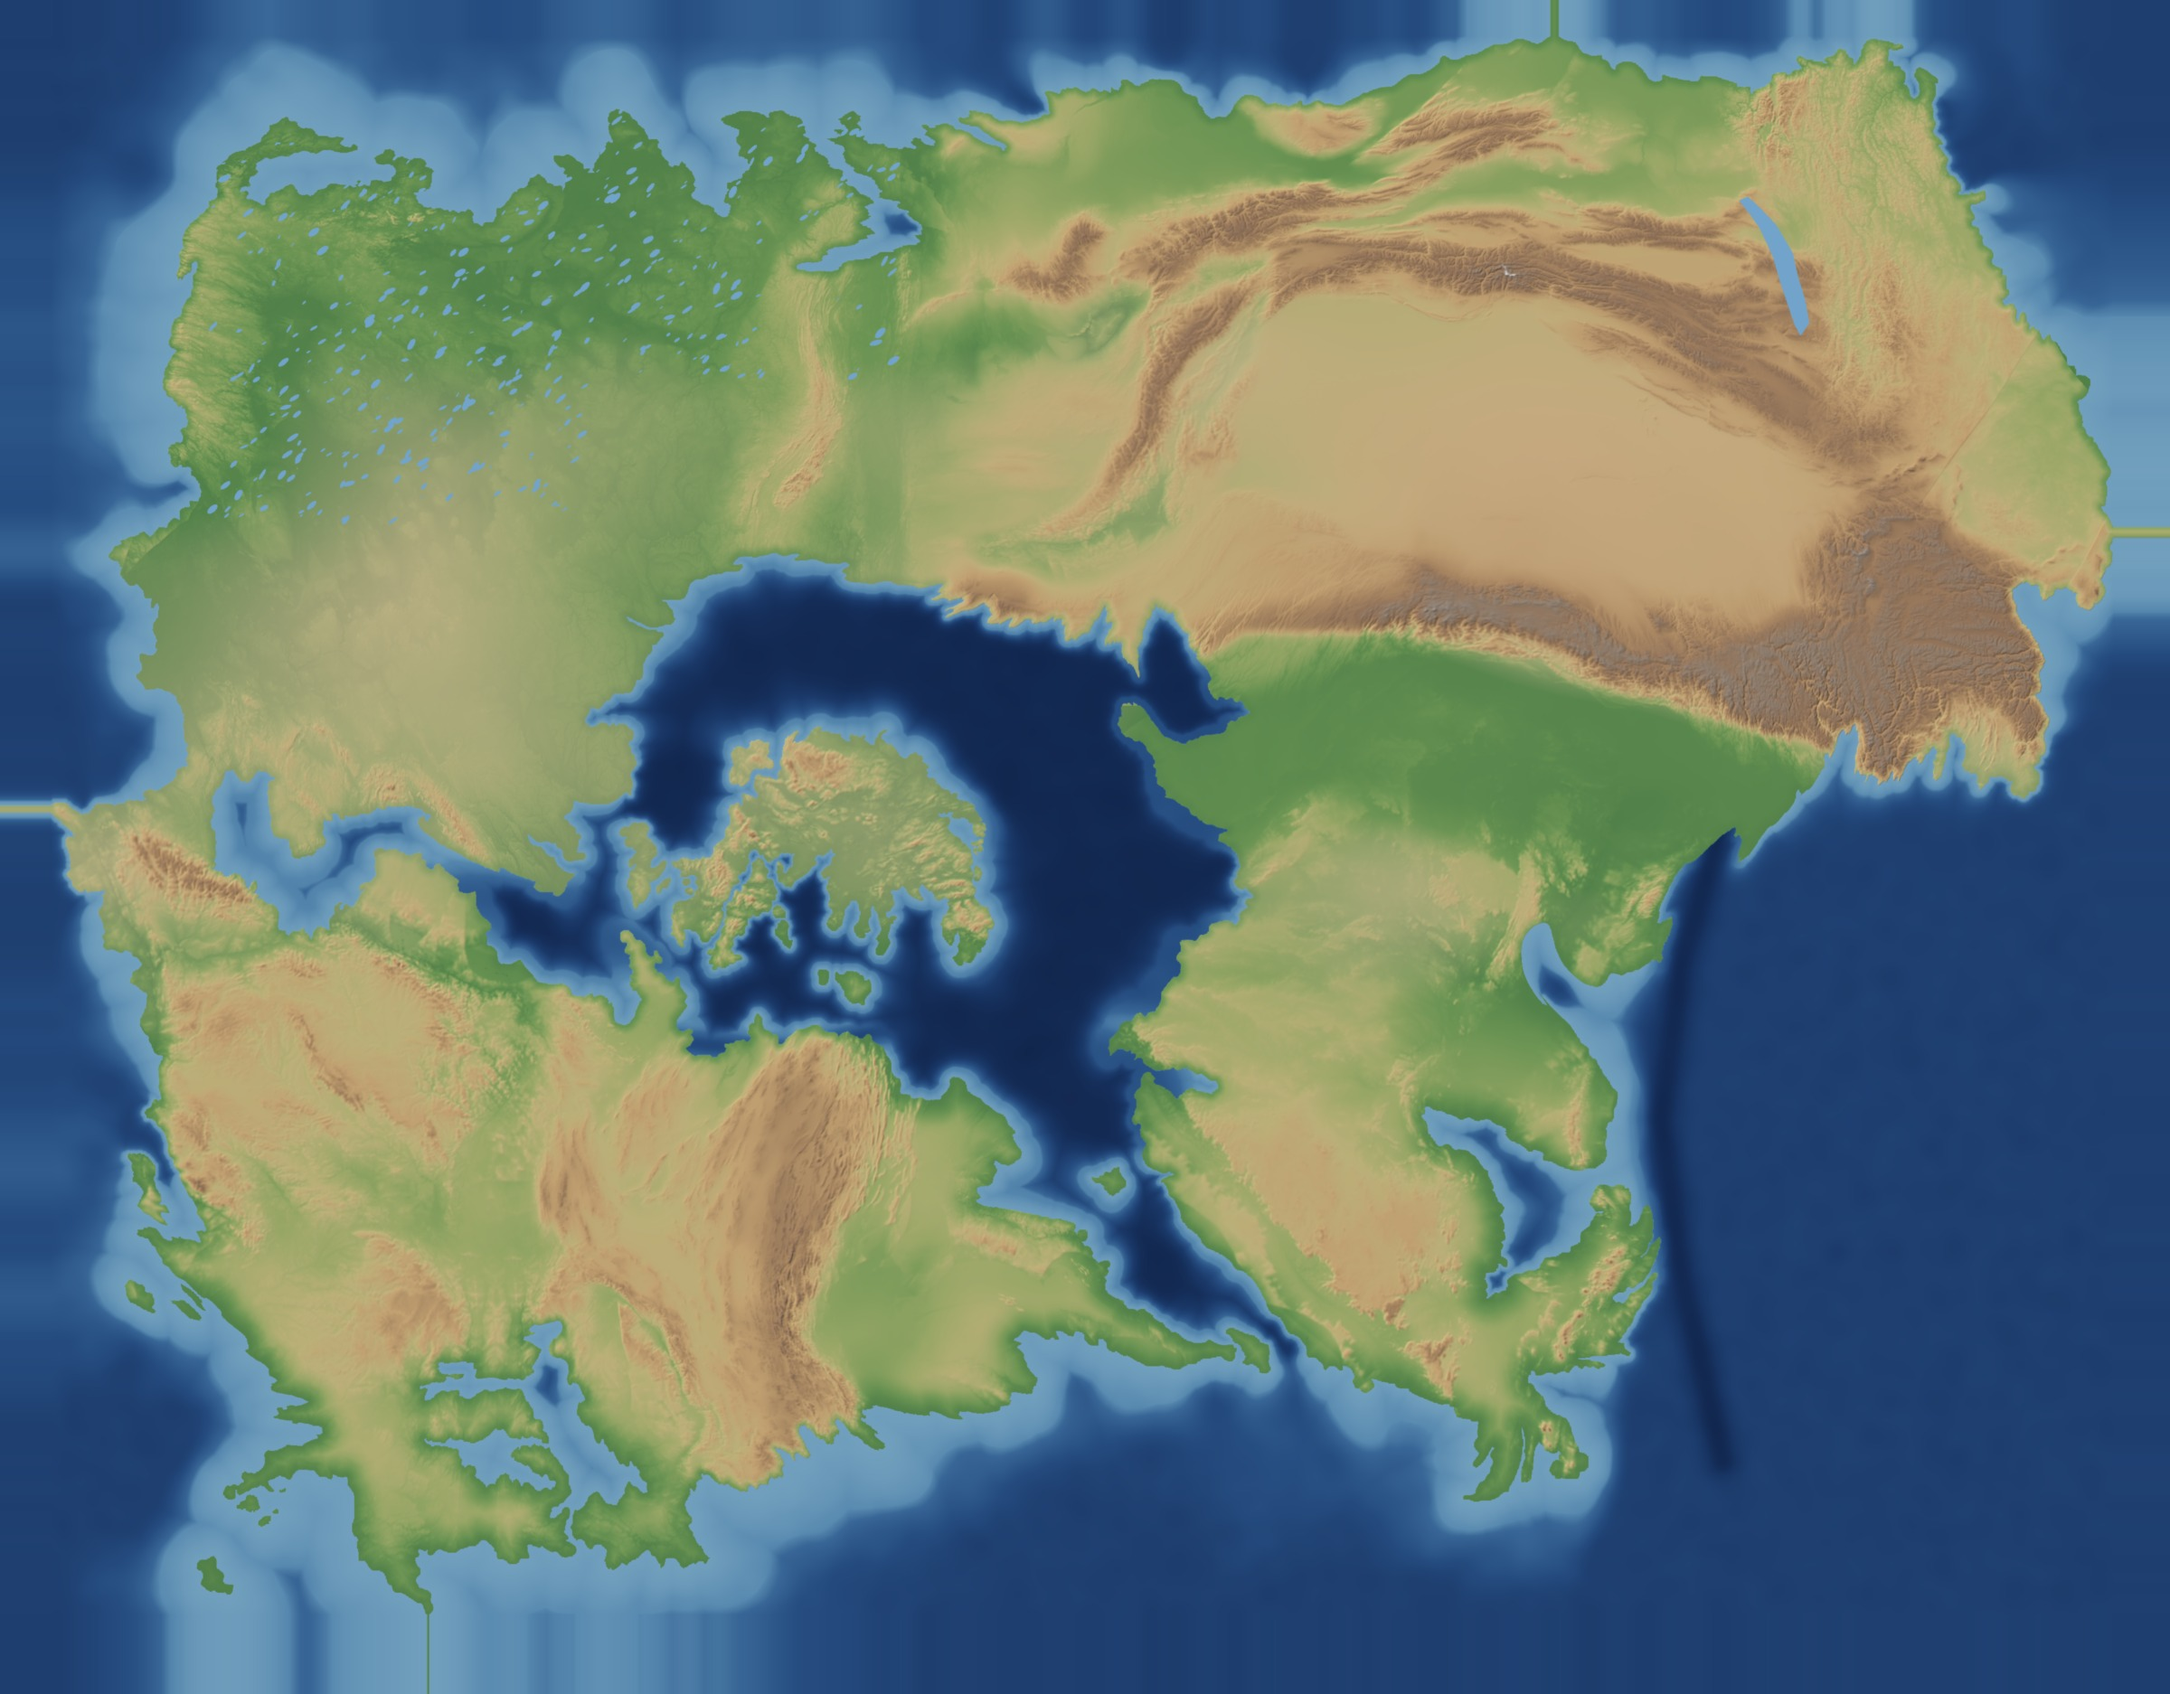
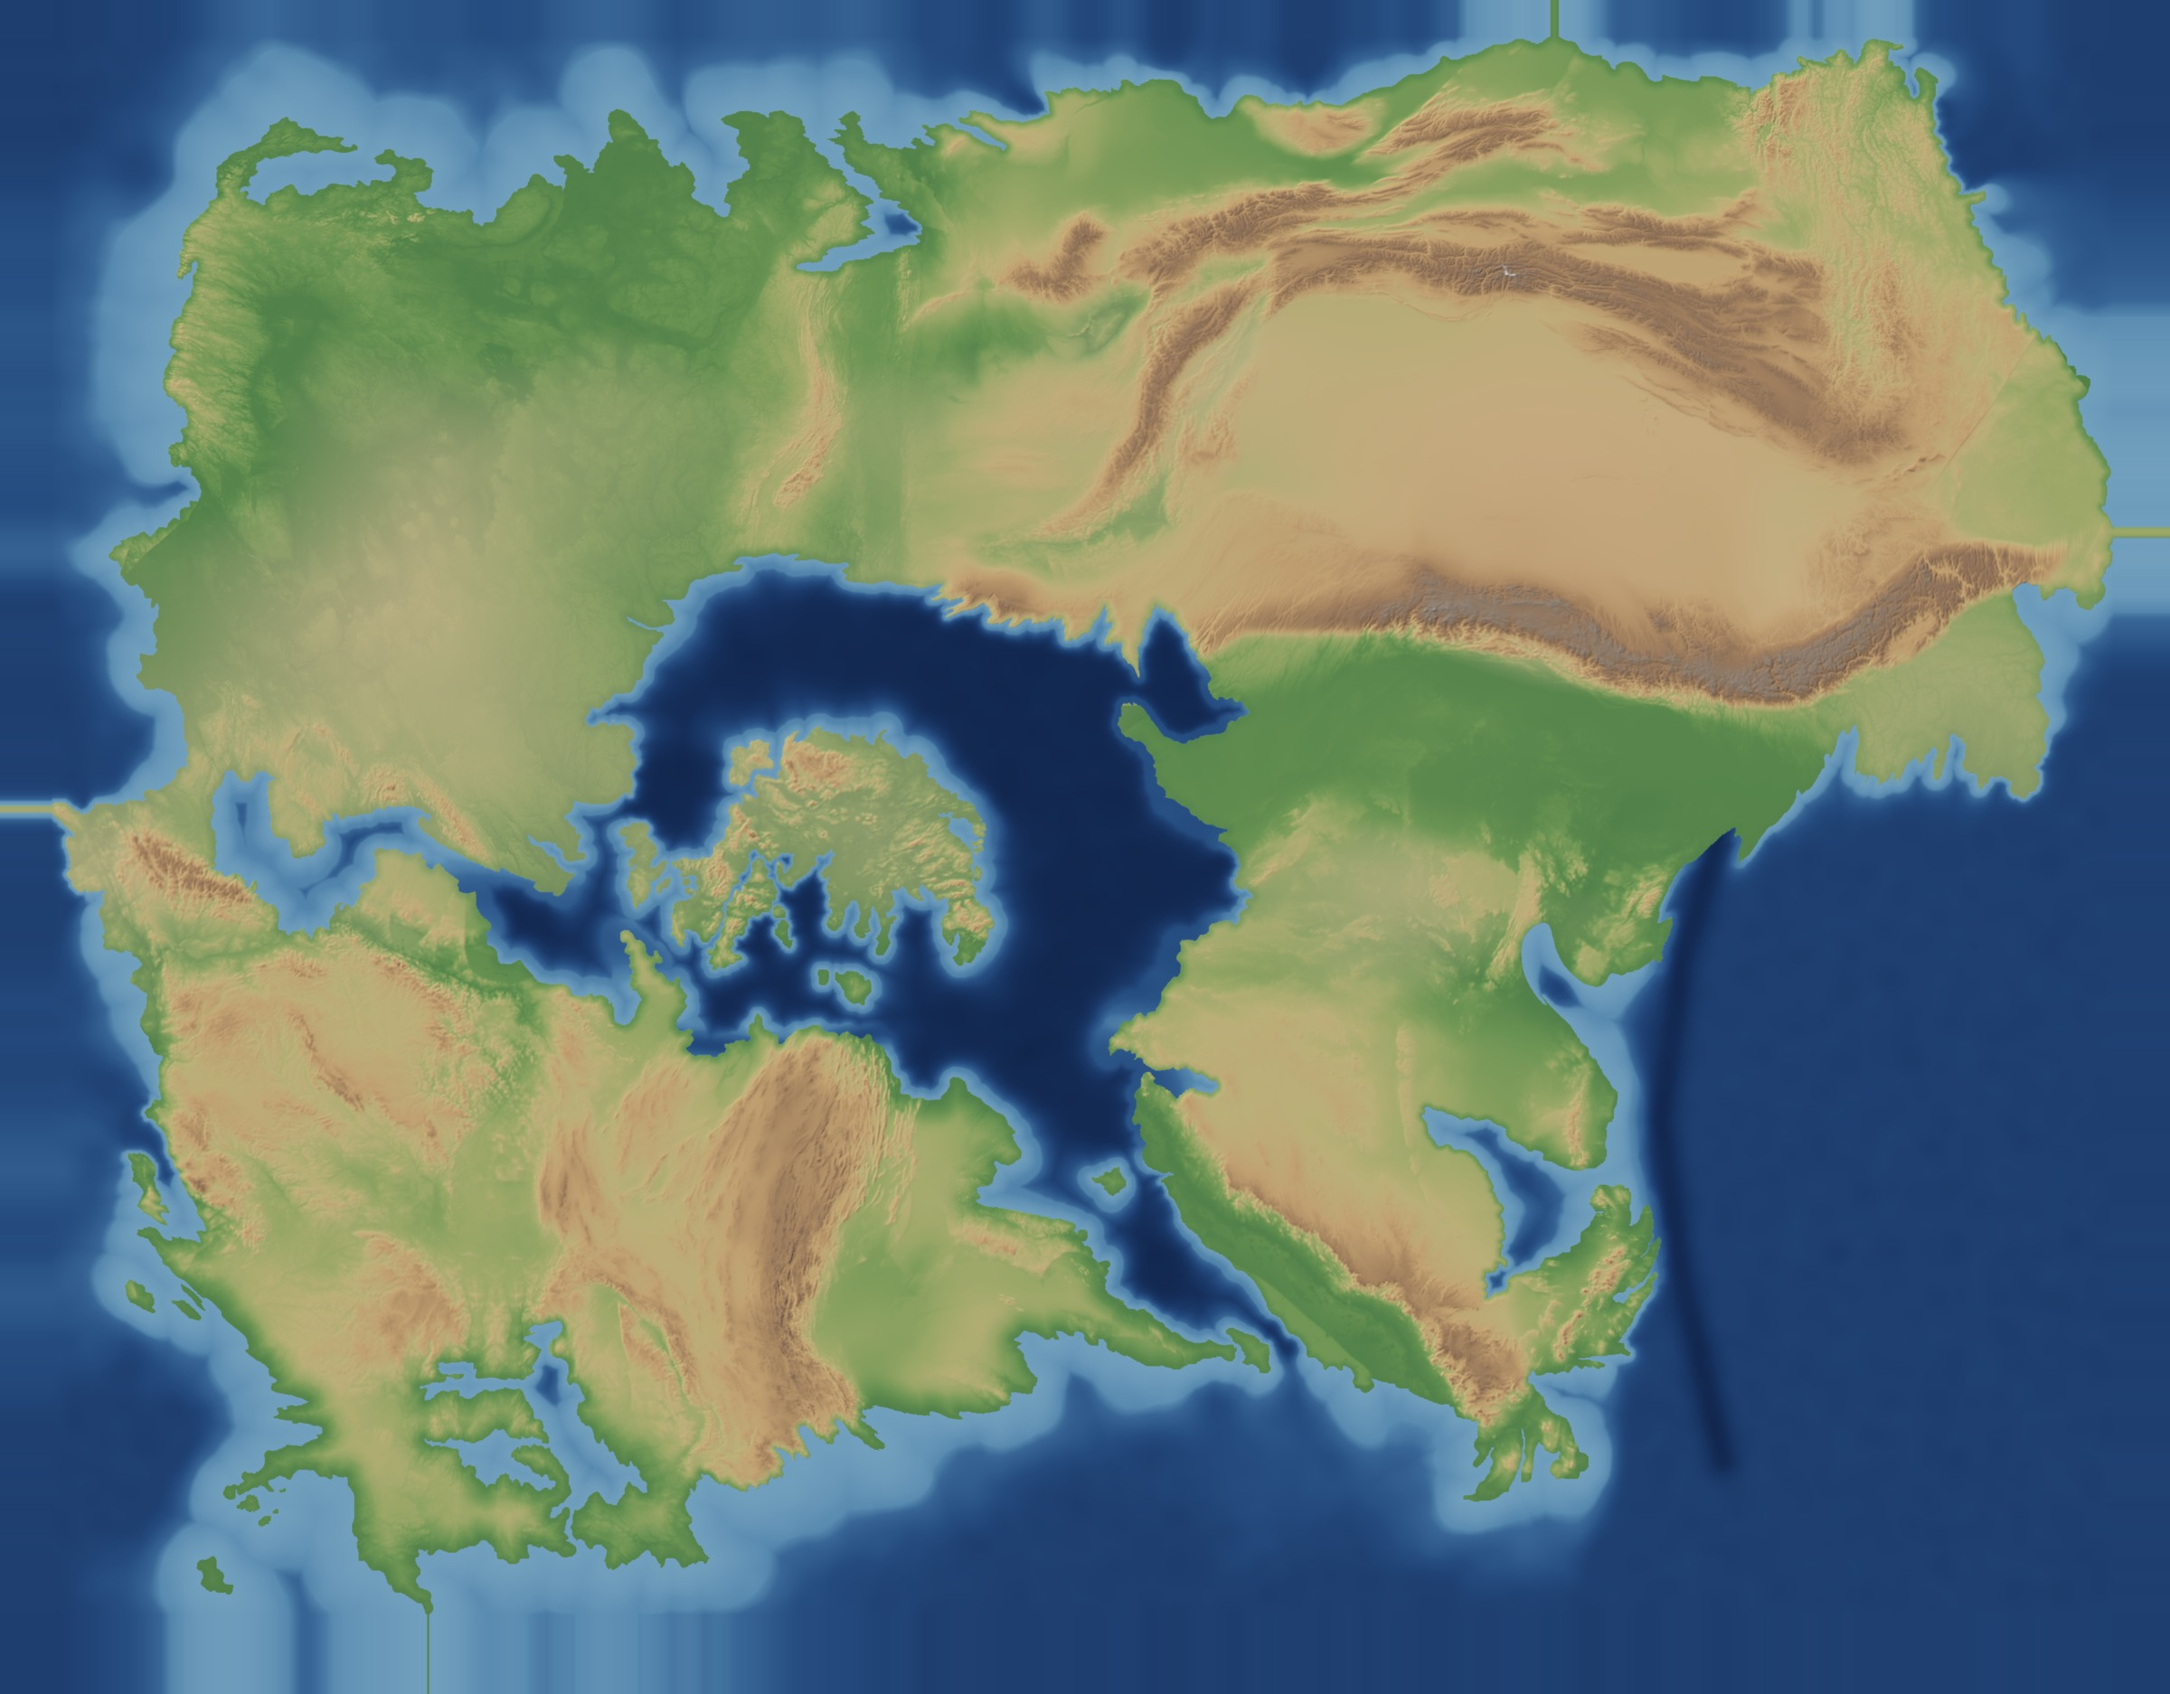
Tarih: doğu Mor kıvrımı, güney yarımada yarık omzu, göller kaldırıldı; atlas girdisi güncellendi
Claude-Session: https://claude.ai/code/session_01TrTgWsQ7k9npTcPJkL6aYQ

diff --git a/tarih/benzer.py b/tarih/benzer.py
@@ -46,7 +46,7 @@ KARSILIK = [
     },
     {   # 2'nin kuzeyi ve ortası: Orta Sibirya; Putorana = Kuzey Tuzakları, Baykal = Derin Göl, Sayanlar = Uzak Sıra
         "ad": "Sibirya", "kutu": (60, 140, 44, 78), "parca": {"2", "serit"},
-        "etiket": [("Derin Göl", 110.6, 54.6, 15), ("UZAK SIRA", 96.5, 52.6, 17), ("Boz Kalkan", 110.0, 64.0, 16)],
+        "etiket": [("UZAK SIRA", 96.5, 52.6, 17), ("Boz Kalkan", 110.0, 64.0, 16)],
         "nokta": [(1250, 150, 93.0, 69.0), (1680, 240, 106.5, 53.0)],
         "gol": [("Derin Göl", [(103.7, 51.5), (104.9, 51.5), (106.2, 52.1), (107.4, 52.8), (108.6, 53.4), (109.5, 54.4), (110.0, 55.7),
                                (109.4, 55.9), (108.5, 54.9), (107.3, 53.9), (106.3, 53.3), (105.2, 52.6), (104.1, 51.9)])],
@@ -312,6 +312,70 @@ def tasarla(z, kara, s, doku):
     return np.where(kara, z * (1 - W) + np.maximum(yeni, 5) * W, z)
 
 
+# ------------------------------------------------------------------ sahibin son düzeltmeleri (14 Kasım)
+def _gur(ny, nx, hk, km, kok):
+    g = ndimage.gaussian_filter(np.random.default_rng(kok).standard_normal((ny // 4, nx // 4)), km / hk / 4)
+    return ndimage.zoom(g / g.std(), (ny / g.shape[0], nx / g.shape[1]), order=1)[:ny, :nx]
+
+
+def dogu_mor(z, kara, s):
+    """Mor'un doğu ucu: Tibet benzeri düğüm alçak yaylaya iner; sıra aynı karşılığın (aynalanmış Himalaya ön kuşağı, Hindukuş'a
+    kadar) devamıyla sahibin çizdiği kıvrımda kuzeydoğuya döner ve incelerek biter; güneyi ön ülke ovası."""
+    from scipy.spatial import cKDTree
+    import copy
+    ny, nx = z.shape; hk = O.KM_PX / s
+    im = Image.new("F", (nx, ny), 0.0)
+    ImageDraw.Draw(im).polygon([(x * s, y * s) for x, y in [(1650, 420), (2000, 420), (2000, 740), (1700, 740), (1630, 650)]], fill=1.0)
+    W = ndimage.gaussian_filter(np.asarray(im), 60 / hk)
+    b0 = 500.0
+    z2 = np.where(kara & (z > b0), b0 + (z - b0) * (1 - W * 0.67), z)
+    k = copy.deepcopy([q for q in KARSILIK if q["ad"] == "Mor"][0])
+    k["nokta"] = [(1110, 595, 95.0, 29.6), (1300, 565, 88.1, 27.8), (1500, 614, 83.5, 28.7), (1630, 628, 79.6, 30.9),
+                  (1700, 628, 77.6, 32.0), (1760, 600, 75.9, 33.4), (1820, 540, 74.4, 34.9), (1870, 515, 72.6, 35.9),
+                  (1920, 505, 70.9, 36.2), (1955, 482, 69.4, 35.7), (1985, 455, 67.9, 35.0)]
+    c = np.array([p[:2] for p in k["nokta"][2:]], float)
+    pts = np.vstack([c[i] + (c[i + 1] - c[i]) * t for i in range(len(c) - 1) for t in np.linspace(0, 1, 80)[:, None]]) * s
+    gur = lambda km, kok: _gur(ny, nx, hk, km, kok)
+    bx = (gur(300, 51) * 25 + gur(80, 52) * 10) / hk; by = (gur(300, 53) * 25 + gur(80, 54) * 10) / hk
+    yy, xx = np.mgrid[0:ny, 0:nx].astype(np.float32)
+    qx = (xx + bx)[::4, ::4]; qy = (yy + by)[::4, ::4]
+    dd, ii = cKDTree(pts).query(np.stack([qx.ravel(), qy.ravel()], 1))
+    yon = (qy.ravel() - pts[ii, 1])
+    sh = (ny / qx.shape[0], nx / qx.shape[1])
+    d = ndimage.zoom(dd.reshape(qx.shape) * hk, sh, order=1)[:ny, :nx]
+    guney = ndimage.zoom(yon.reshape(qx.shape) * hk, sh, order=1)[:ny, :nx]
+    xr = xx / s
+    tt = ndimage.zoom((ii / (len(pts) - 1)).reshape(qx.shape), sh, order=1)[:ny, :nx]
+    incel = np.clip((tt - 0.40) / 0.60, 0, 1) ** 1.1
+    genis = (105 + 45 * np.clip(gur(220, 55), -1.5, 1.5)) * (1 - 0.93 * incel)
+    Wb = np.clip((genis - d) / 55, 0, 1) * np.clip((xr - 1560) / 80, 0, 1)
+    A, _ = ornekle(k, ny, nx, s, (Wb > 0).astype(np.float32), {}, None)
+    uc = 1 - incel; uc = 0.12 + 0.88 * uc * uc * (3 - 2 * uc)
+    A = 300 + (A - 300) * uc
+    z2 = np.where(kara, z2 * (1 - Wb) + np.maximum(A, z2) * Wb, z2)
+    bas = 65 + 30 * np.clip(gur(180, 56), -1.5, 1.5)
+    Wo = np.clip((guney - bas) / 60, 0, 1) * np.clip((xr - 1540) / 80, 0, 1) * (guney < 900)
+    return np.where(kara & (z2 > 40), 40 + (z2 - 40) * (1 - 0.8 * Wo), z2)
+
+
+# 3'ün güney yarımadası: yarık omzu. Güneydoğu Kanalı açılırken batı kenar yükseldi; kanala bakan basamak, kuzeydoğuya eğik yayla.
+# Karşılığı Arabistan'ın Kızıldeniz kenarı (Asir ve Yemen dağları). Doğu yarımadası (volkanik yay) değişmez.
+YARIMADA = {"ad": "Arabistan", "kutu": (34, 56, 11, 29),
+            "bolge": [(1020, 960), (1200, 940), (1420, 980), (1440, 1100), (1420, 1250), (1470, 1430), (1350, 1420), (1150, 1250), (1030, 1080)],
+            "nokta": [(1050, 1012, 38.9, 23.7), (1250, 1203, 41.9, 18.6), (1380, 1332, 43.9, 13.6), (1330, 1050, 46.0, 21.0)]}
+
+
+def guney_yarimada(z, kara, s):
+    ny, nx = z.shape; hk = O.KM_PX / s
+    im = Image.new("F", (nx, ny), 0.0)
+    ImageDraw.Draw(im).polygon([(x * s, y * s) for x, y in YARIMADA["bolge"]], fill=1.0)
+    W = ndimage.gaussian_filter(np.asarray(im), 45 / hk) * kara
+    A, _ = ornekle(YARIMADA, ny, nx, s, (W > 1e-3).astype(np.float32), {}, None)
+    dk = ndimage.distance_transform_edt(kara) * hk
+    u = np.clip(dk / 30.0, 0, 1); rampa = 0.35 + 0.65 * u * u * (3 - 2 * u)
+    return np.where(kara, z * (1 - W) + np.maximum(A * rampa, 5) * W, z)
+
+
 GOL = None
 # Kaynak Sırası: dokunun altına geniş ve alçak kabartı (boşluk kalmasın); doruklar yumuşak sınırla 3500 m dolayında tutulur
 SIRT_TABAN = {"cizgi": [(1150, 241), (1108, 291), (1077, 333), (1055, 386), (1024, 438), (977, 475), (908, 498)],
@@ -571,6 +635,10 @@ def bilesik():
         z = sirt_guney(z, kara, s, kaynaklar)
     z = ekvator_kalkan(z, kara, s)
     z = np.where(kara, np.maximum(z, 1.0), 0.0)
+    z = dogu_mor(z, kara, s)
+    z = guney_yarimada(z, kara, s)
+    z = np.where(kara, np.maximum(z, 1.0), 0.0)
+    log("doğu Mor ve güney yarımada işlendi")
     np.save(f"{CIKTI}/benzer_z.npy", z.astype(np.float32))
     np.save(f"{CIKTI}/benzer_gol.npy", (GOL > 0.5) & kara)
     log(f"bileşik en yüksek {z.max():.0f} m")
@@ -719,8 +787,7 @@ def ciz():
     pur = ndimage.gaussian_filter(np.random.default_rng(12).standard_normal(z.shape), 3.0)
     nh = AR.nehirler(z + 4.0 * pur / pur.std(), kt, Pt, AR.H_M / 2)
     log(f"nehir parçası {len(nh)}")
-    gol = buzul_golleri(zt, kt)
-    gol |= np.load(f"{CIKTI}/benzer_gol.npy") & kt
+    gol = np.zeros_like(kt)  # göller şimdilik çizilmez (sahip: su kaynaklarına şu an gerek yok)
     im, _, _ = AR.ciz(zt, kt, Pt, None, gol, 1, AR.H_M / 2, nh, kar_kurak=0.0, kar_bolge=True)
     im.save(f"{CIKTI}/topografya.png")
     duz, _, _ = AR.ciz(zt, kt, Pt, None, gol, 1, AR.H_M / 2, None, kar_kurak=0.0, kar_bolge=True, kenar_ciz=False)

diff --git a/tarih/olaylar.py b/tarih/olaylar.py
@@ -256,6 +256,7 @@ DONEMLER = [
             "kapandığı için orada kapanmamış bir deniz kolu kaldı: bugünkü üçgen koy. Yeni Mor Okyanusu'nun 3'ün batısında "
             "kalan parçası kuşatıldı; doğu iç denizin tabanı bu eski okyanusun kalıntısıdır."),
         "olaylar": [
+            (45, "Doğu kıvrımı", "3'ün doğu köşesi 2'yi iterken Mor kuşağının doğu ucu kuzeydoğuya bükülür; sıra orada daralarak söner, arkasında geniş yayla oluşmaz."),
             (50, "Doğu ucunda ilk temas", "3'ün kuzeydoğu köşesi İnce Şerit'e değer."),
             (45, "Mor Sıradağları yükselir", "Doğu kesimde hızlı kalınlaşma."),
             (30, "Tuzak Çanağı kalkar", "Sıkışma kuzeye iletilir; sert Kır Çekirdeği kıvrılmadan bütün olarak yaklaşık 1 km yükselir, kenarındaki eski dikişler Çanak Sıraları olur, batısında 2 milyar yıllık Kaynak dikişi yeniden sıkışıp Kaynak Sırası'nı yükseltir; ortası düz kalır, dört yanı kapalı bir bozkır çanağı (Tarım benzeri)."),
@@ -288,6 +289,7 @@ DONEMLER = [
             (14, "Sarı yayı", "4'ün doğu kenarında volkanlar (5'in önündeki okyanus kabuğu dalar)."),
             (10, "Ada yayı volkanları", "6'nın güney açığında volkan adaları."),
             (8, "Sarı çarpışması", "5'in güney ucu 4'e çarpar; çarpışma kuzeye ilerler."),
+            (9, "Güney omzu kalkar", "Güneydoğu Kanalı açılırken 3'ün güney yarımadasının batı kenarı yükselir: kanala bakan dik basamak, kuzeydoğuya eğik yayla (Kızıldeniz kıyısındaki Asir ve Yemen dağları benzeri)."),
             (8, "Kanalda okyanus kabuğu", "Güneydoğu kanalının kuzeyinde deniz tabanı yayılması."),
             (5, "Sarı Sıradağları hızla yükselir", "Genç, dik, hızla aşınan dağlar; Tayvan benzeri."),
             (4, "Mor Sıradağları bugünkü yüksekliğinde", "En yüksek doruklar 6 km dolayı; arkadaki yayla ortalama 1 km."),

diff --git a/tarih/notlar/KARARLAR.md b/tarih/notlar/KARARLAR.md
@@ -69,3 +69,9 @@ en büyük fark 0,1 m; batı sırtı kutusunda 0; kara maskesi farkı 0. Hikâye
 Kaynak Sırası sahibin çizdiği S hattında: atlasta 49,5°K 5,8°D'den 38,2°K 4,8°B'ye; kuzey yarısında tepe 2950 ile 3100 m, dibe doğru
 incelerek ve alçalarak 800 m'ye iner. Önceki 36 ile 44°K arası kesintisiz sırt (gedik kapatma) bununla geçersiz; bozkır yeniden ölçülmeli.
 Mavi Dağlar: Ural şeridi yerine kıvrımlı Apalaş sırtları (tepe 850 ile 1200 m) ve çevresiyle hafif kabartı (kuzeyde 150, güneyde 350 m).
+
+## Doğu Mor, güney yarımada, göller (sahibin isteği)
+- Mor Sıradağları'nın doğu ucundaki Tibet benzeri düğüm alçak yaylaya indi; sıra aynı karşılığın devamıyla (Himalaya ön kuşağı, Hindukuş)
+  sahibin çizdiği kıvrımda kuzeydoğuya döner ve incelerek biter; güneyi ön ülke ovası (benzer.py dogu_mor).
+- 3'ün güney yarımadası yarık omzu: Arabistan'ın Kızıldeniz kenarı karşılığı (benzer.py guney_yarimada). Kuyruklardaki sırtlar ertelendi.
+- Göller şimdilik çizilmiyor. Atlasta: kara maskesi aynı, batı sırtı kutusunda fark 0, ekvator bandı ortanca 655 m (önce 643), p10 99 m (önce 136).
